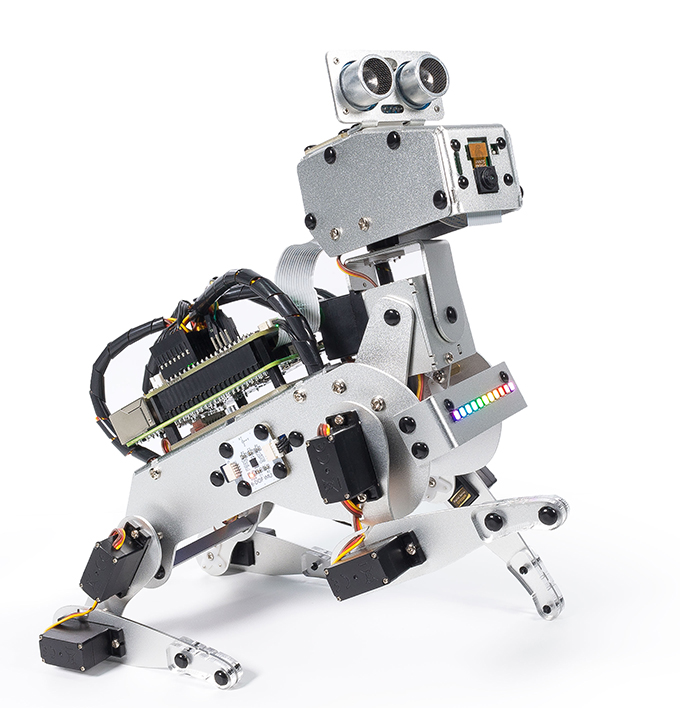
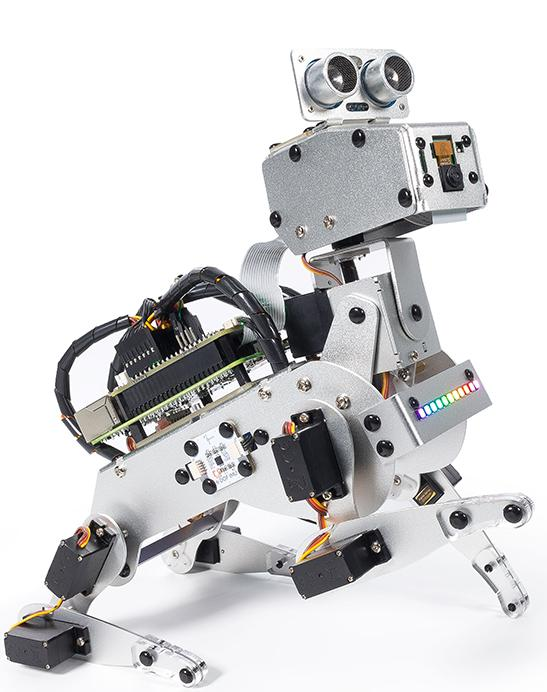
add more

diff --git a/docs/source/python/py_0_calibrate.rst b/docs/source/python/py_0_calibrate.rst
@@ -33,6 +33,10 @@ But if the deviation angle is too big, you still have to go back to :ref:`py_ser
 
 For a comprehensive guide, refer to the full calibration video. It provides a visual step-by-step process to accurately calibrate your PiDog.
 
+.. note::
+
+   The Pidog kit may come with a 90° or 60° ruler. Our calibration video uses the 90° ruler, but the 60° version follows a similar process. You can also refer to the detailed steps below.
+ 
 .. raw:: html
 
     <iframe width="700" height="500" src="https://www.youtube.com/embed/witCWeoHTdk?si=g8_RZDUkfjdwbLZu&amp;start=871&end=1160" title="YouTube video player" frameborder="0" allow="accelerometer; autoplay; clipboard-write; encrypted-media; gyroscope; picture-in-picture; web-share" allowfullscreen></iframe>
@@ -43,24 +47,24 @@ The specific steps are as follows:
 
 #. Put the PiDog on the base.
 
-    .. image:: img/place-pidog.JPG
+   .. image:: img/place-pidog.JPG
 
 #. Navigate to the PiDog examples directory and run the ``0_calibration.py`` script.
 
-    .. raw:: html
+   .. raw:: html
 
         <run></run>
 
-    .. code-block::
+   .. code-block::
 
         cd ~/pidog/examples
         sudo python3 0_calibration.py
         
-    Upon running the script, a user interface will appear in your terminal.
+#. Upon running the script, a user interface will appear in your terminal. Here, you need to select your calibration ruler (60° or 90°).If your kit has a 90° calibration ruler, select the first option; if it is a 60° one, select the second option.
 
     .. image:: img/CALI.slt.1.png
 
-#. Here, you need to select your calibration ruler (60° or 90°).If your kit has a 90° calibration ruler, select the first option; if it is a 60° one, select the second option. After selecting, you will enter the following interface:
+#. After selecting, you will enter the following interface:
 
 .. image:: img/CALI.slt.2.png
 

diff --git a/docs/source/openai.rst b/docs/source/openai.rst
@@ -340,9 +340,9 @@ In the ``gpt_dog.py`` file, locate the following lines. You can modify these par
 
 * ``LANGUAGE`` variable: 
 
-   * Improves Speech-to-Text (STT) accuracy and response time.
-   * ``LANGUAGE = []`` means supporting all languages, but this may reduce STT accuracy and increase latency.
-   * It's recommended to set the specific language(s) using |link_iso_language_code| language codes to improve performance.
+  * Improves Speech-to-Text (STT) accuracy and response time.
+  * ``LANGUAGE = []`` means supporting all languages, but this may reduce STT accuracy and increase latency.
+  * It's recommended to set the specific language(s) using |link_iso_language_code| language codes to improve performance.
 
 * ``VOLUME_DB`` variable:
 

diff --git a/docs/source/assemble_video.rst b/docs/source/assemble_video.rst
@@ -29,7 +29,6 @@ If your mainboard is a Raspberry Pi Zero W, here are the steps to install it on 
 
     The assembly steps in the video may differ slightly from the printed instructions you have. Please prioritize following the printed instructions. If any steps are unclear, you can refer to the video for further clarification.
 
-
 .. raw:: html
 
     <iframe width="700" height="500" src="https://www.youtube.com/embed/Zfv-8O_Sq9s?si=ZT_6cy9uvupJ0Y_d" title="YouTube video player" frameborder="0" allow="accelerometer; autoplay; clipboard-write; encrypted-media; gyroscope; picture-in-picture; web-share" allowfullscreen></iframe>

diff --git a/docs/source/hardware/cpn_battery.rst b/docs/source/hardware/cpn_battery.rst
@@ -23,7 +23,7 @@
 * **Middle**: To balance the voltage between the two cells and thus protect the battery.
 * **GND**: Negative battery terminal.
 
-This is a custom battery pack made by SunFounder consisting of two 18650 batteries with a capacity of 2000mAh. The connector is PH2.0-5P, which can be charged directly after being inserted into the shield.
+This is a custom battery pack made by SunFounder consisting of two 18650 batteries with a capacity of 2000mAh. The connector is PH2.0-5P, which can be charged directly after being inserted into the Robot HAT.
 
 **Features**
 

diff --git a/docs/source/python/python_start/set_up_your_raspberry_pi.rst b/docs/source/python/python_start/set_up_your_raspberry_pi.rst
@@ -22,7 +22,7 @@ Having a screen simplifies the process of working with your Raspberry Pi.
 
 **Required Components**
 
-* Raspberry Pi 5 
+* Raspberry Pi 
 * Power Adapter
 * Micro SD card
 * Screen Power Adapter
@@ -51,7 +51,7 @@ If you don't have a monitor, remote login is a viable option.
 
 **Required Components**
 
-* Raspberry Pi 5 
+* Raspberry Pi 
 * Power Adapter
 * Micro SD card
 

diff --git a/docs/source/python/python_start/what_do_we_need.rst b/docs/source/python/python_start/what_do_we_need.rst
@@ -26,8 +26,9 @@ It is a capable little device that enables people of all ages to explore
 computing, and to learn how to program in languages like Scratch and
 Python.
 
-.. image:: img/image10.jpeg
-   :align: center
+.. image:: img/compitable_pi_nopi5.jpg
+    :width: 600
+    :align: center
 
 **Power Adapter**
 

diff --git a/docs/source/index.rst b/docs/source/index.rst
@@ -18,7 +18,7 @@ SunFounder Raspberry Pi Robot - |link_Pi_Dog|
 * |link_PiDog|
 
 .. image:: img/pidog.jpg
-    :width: 400
+    :width: 300
     :align: center
 
 Thank you for choosing our |link_Pi_Dog|.
